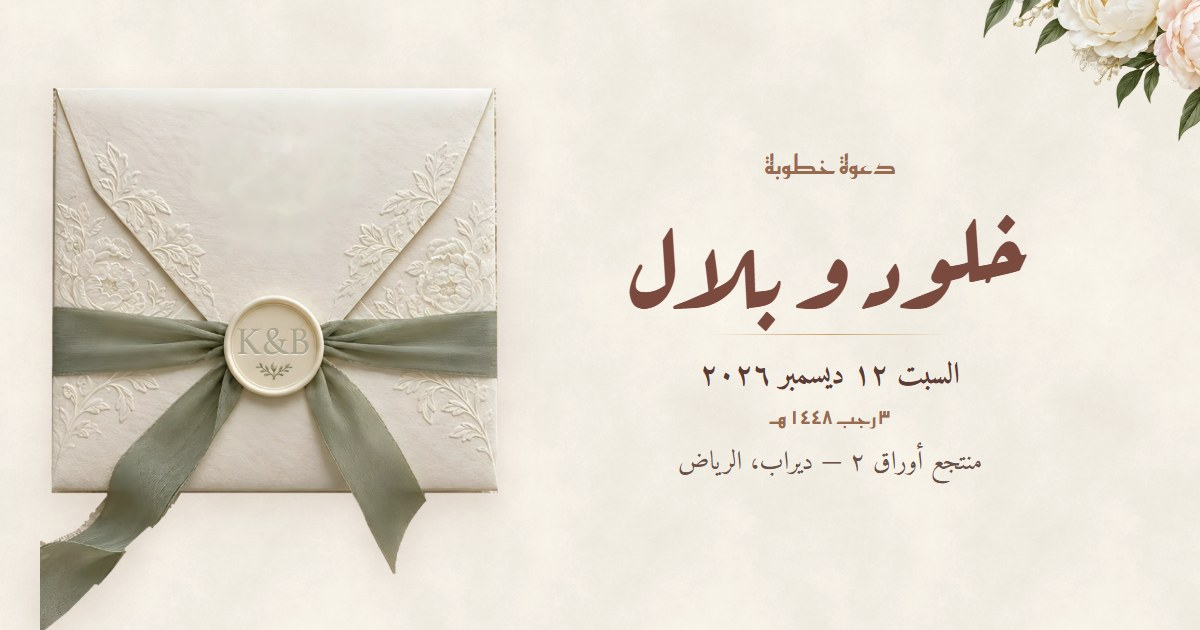
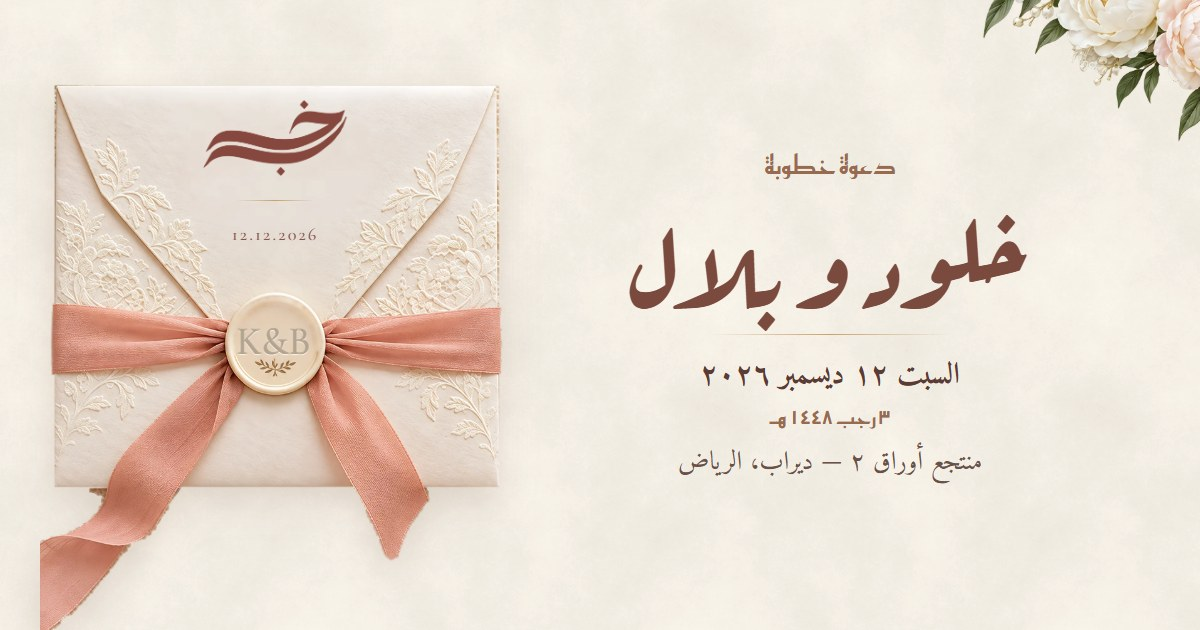
G55weuy بطلب المالك: شاشة الظرف بقت نفس الصورة اللي بعتها (شريطة خوخي، فاوانيا وردي، دانتيل، ختم عاجي بـ K&B)، ومكان "خلود و بلال" على الظرف مونوجرام "خ ب" (صورة المالك) وتحته التاريخ. جوه الدعوة تحت الاسم الكبير: "عائلة البغدادي · عائلة صبري" بدل الأسامي كاملة.
- صورة المالك اتشال منها الكلام المطبوع بـ LaMa، اتكبّرت 4x، واتقسمت لخلفية (فيها فتحة مكان الظرف) وظرف لوحده — فالظرف بينزل زي القالب، والكلام فوق/تحت والتاريخ وK&B نص حي.
- المونوجرام اتقص من صورته (من غير توقيع المصمم اللي فوق) بلون كلام التصميم، وبينزل مع الظرف.
- كارت المشاركة اتعمل من جديد بالظرف الجديد والمونوجرام.
- أسامي العيلتين: oneOffFix G55weuy-family-names (بس لو السطر لسه زي ما اتحط).

diff --git a/custom-invitations/G55weuy.js b/custom-invitations/G55weuy.js
@@ -2,7 +2,9 @@
 // (2026-11-09): عميلة من السعودية. على قالب Pearl Peony العربي، بألوان الخطوبة اللي بعتها:
 //   Ivory #FAF5EE خلفية · Blush/Peach/Deep peach للشريطة والزراير · Champagne · Gold #C9A26B للخطوط والختم ·
 //   Cocoa #3B2E2A للنصوص · Walnut #986A4F للعناوين الصغيرة.
-// - الظرف: زي القالب الأصلي بالظبط (الشريطة الخضرا والختم العاجي بالحروف K&B) — بطلب المالك بعد ما جرّبنا شريطة خوخي.
+// - شاشة الظرف (2026-11-09): نفس شكل الصورة اللي بعتها المالك — شريطة خوخي، فاوانيا وردي، دانتيل، ختم عاجي بـ K&B.
+//   الصورة اتشال منها الكلام (LaMa) واتكبّرت، واتقسمت لخلفية (فيها فتحة مكان الظرف) وظرف لوحده — عشان الظرف ينزل زي القالب.
+//   مكان "خلود و بلال" على الظرف: مونوجرام "خ ب" (الصورة اللي بعتها المالك) بلون كلام التصميم، وتحته التاريخ.
 // - الدبوس (مكان الحفل) خوخي بدل الأخضر، والزخارف الخضرا كلها دهبي.
 // - الخطوط: عربي Aref Ruqaa (الأسامي والعناوين) + Amiri (النص) + Reem Kufi (الكلام الصغير)، إنجليزي Cormorant Garamond.
 // - تاريخ هجري تحت الميلادي (٣ رجب ١٤٤٨ هـ).
@@ -47,9 +49,14 @@ const CSS = `<link rel="stylesheet" href="https://fonts.googleapis.com/css2?fami
 :root{--paper:#faf5ee;--ink:#3b2e2a;--green:#8c5a4b;--sage:#c9a26b;--sage-d:#b08a57;--line:#dcc6a3;--soft:#7a675f;--pearl:#fffaf5}
 html{background:#f3e9e1}
 body{background-color:#faf5ee}
-#coverScreen{background:#f6ede6}
-.env-names{color:#5b3b33}
-.env-date{color:#6a5048}
+#coverScreen{background:#f3e6dc}
+/* الأسامي على الظرف → المونوجرام "خ ب" */
+.env-names{display:none!important}
+/* (.env img بيمدّ أي صورة على الظرف كله — هنا مقاس ومكان المونوجرام بالظبط) */
+.env .kb-mono-art{position:absolute;inset:auto;left:50%;top:27.4%;width:31cqw;height:auto;transform:translateX(-50%);pointer-events:none}
+.env-date{color:#85544a}
+.cv-top{color:#7e4a3f}
+.cv-hint{color:#61372a}
 .h{font-family:'Aref Ruqaa',var(--ar);color:#8c5a4b;font-weight:700}
 .p,.bism,.bye{color:#3b2e2a}
 .names{color:#7a4a3e}
@@ -119,6 +126,11 @@ module.exports = {
   transform(html) {
     let out = html;
     out = out.split('/templates/pearl-peony/pin.webp').join(asset(`${DIR}pin.webp`));
+    out = out.split('/templates/pearl-peony/cover-bg.webp').join(asset(`${DIR}cover-bg.webp`));
+    out = out.split('/templates/pearl-peony/envelope.webp').join(asset(`${DIR}envelope.webp`));
+    // المونوجرام مكان الأسامي على الظرف (جوه .env عشان ينزل معاه)
+    out = out.replace(/(<div class="env-t env-names[^"]*">[\s\S]*?<\/div>)/, (m) => `${m}
+      <img class="kb-mono-art" src="${asset(`${DIR}mono.webp`)}" alt="خ ب">`);
     for (const [g, c] of Object.entries(GREENS)) out = out.split(g).join(c);
     // التاريخ الهجري تحت سطر التاريخ الميلادي
     out = out.replace(/(<p class="date-line[^"]*"[^>]*data-elem-id="pp10"[^>]*><\/p>)/, (m) => `${m}\n    <p class="kb-hijri r d2">${HIJRI}</p>`);

diff --git a/utils/oneOffFixes.js b/utils/oneOffFixes.js
@@ -1239,6 +1239,14 @@ const FIXES = [
     },
   },
   {
+    // G55weuy — بطلب المالك (2026-11-09): تحت الاسم الكبير "خلود و بلال" تتكتب أسامي العيلتين بدل الأسامي كاملة.
+    // بس لو السطر لسه زي ما اتحط أول مرة (لو العميلة غيّرته من المحرر مابنلمسوش).
+    name: 'G55weuy-family-names',
+    shortId: 'G55weuy',
+    when: (c) => !!(c.texts && c.texts.pp8 === 'خلود البغدادي  ·  بلال صبري'),
+    apply: () => ({ 'customizations.texts.pp8': 'عائلة البغدادي  ·  عائلة صبري' }),
+  },
+  {
     // MslhLFz (Pearl Peony EN) — بطلب المالك (2026-11-09): "Kindly let us know at your earliest convenience."
     // كانت سطر وتحته كلمة واحدة لوحدها ("convenience.") — بقت سطرين: "Kindly let us know" / "at your earliest
     // convenience." (السطر الجديد \n بيتعرض pre-wrap — utils/customizations.js setTextOn). بس لو النص لسه زي ما العميل كتبه.
